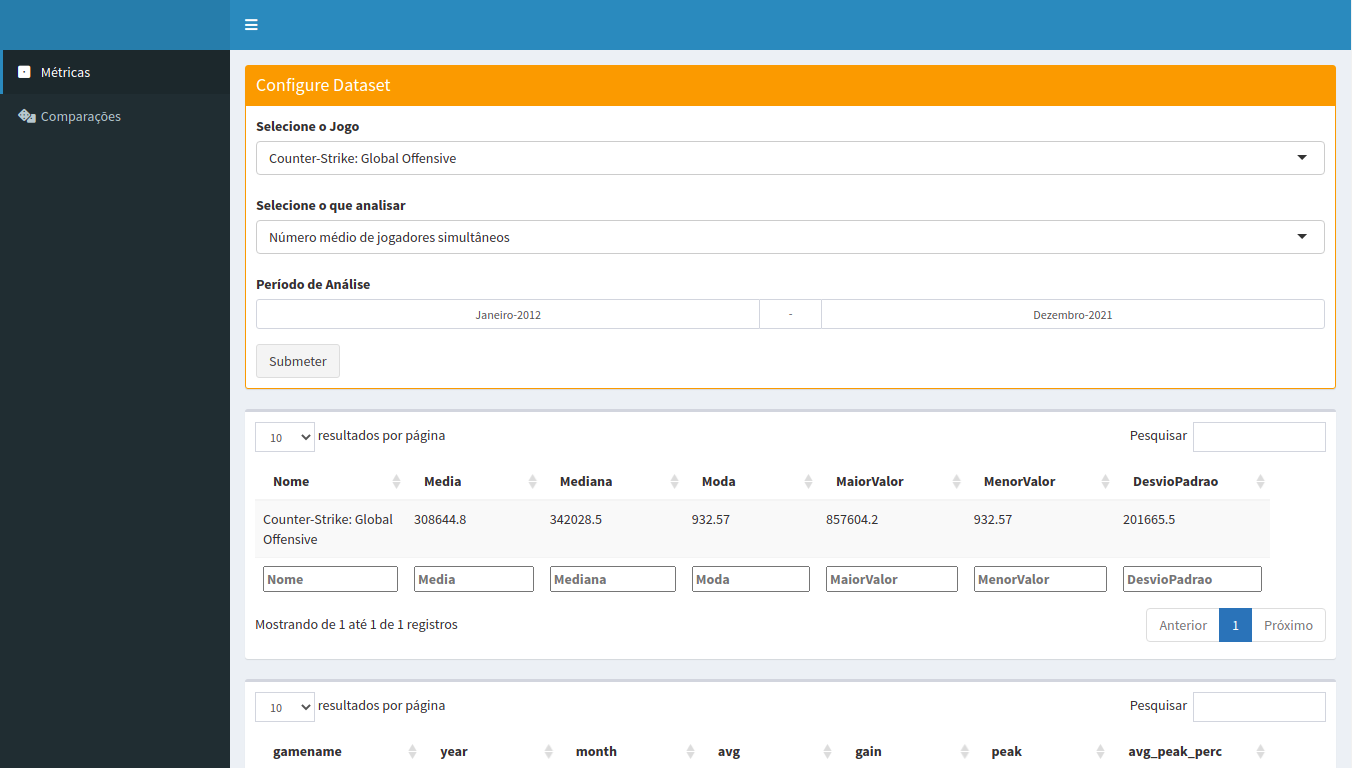
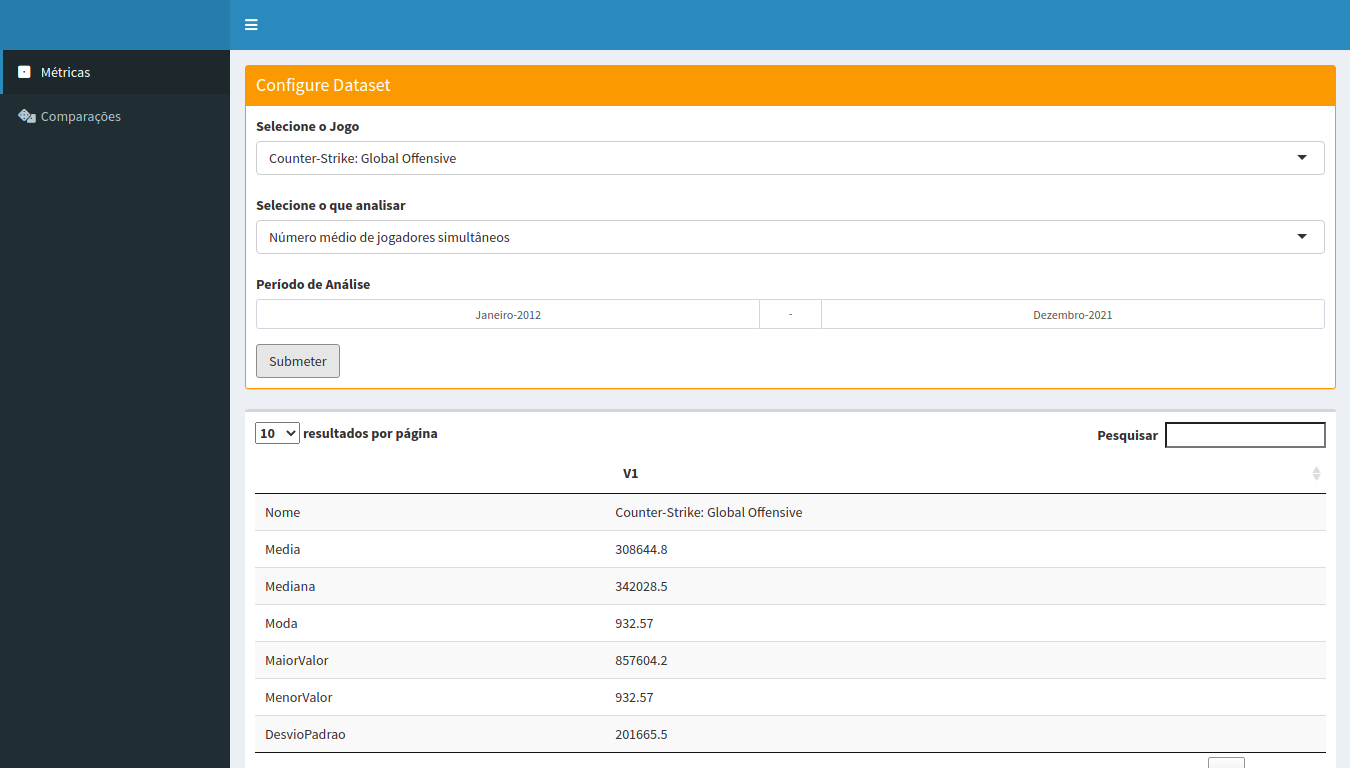
Update README

diff --git a/README.md b/README.md
@@ -11,11 +11,12 @@ Projeto 2 da discipla de Estatística e Probabilidade para Computação (et586)
 - shinydashboard
 - magrittr
 - lubridate
+- DT
 
 ## Como Instalar
 É preciso ter o interpretador da linguagem R instalado com todas as bibliotecas listadas acima. Elas podem ser instaladas rodando o comando a baixo no interpretador
 ```r
-   install.packages(<nome_da_biblioteca>)
+   install.packages("nome_da_biblioteca")
 ```
 
 Tendo o interpretador pronto e o repositório clonado, abra o diretório raiz no terminal e execute:
